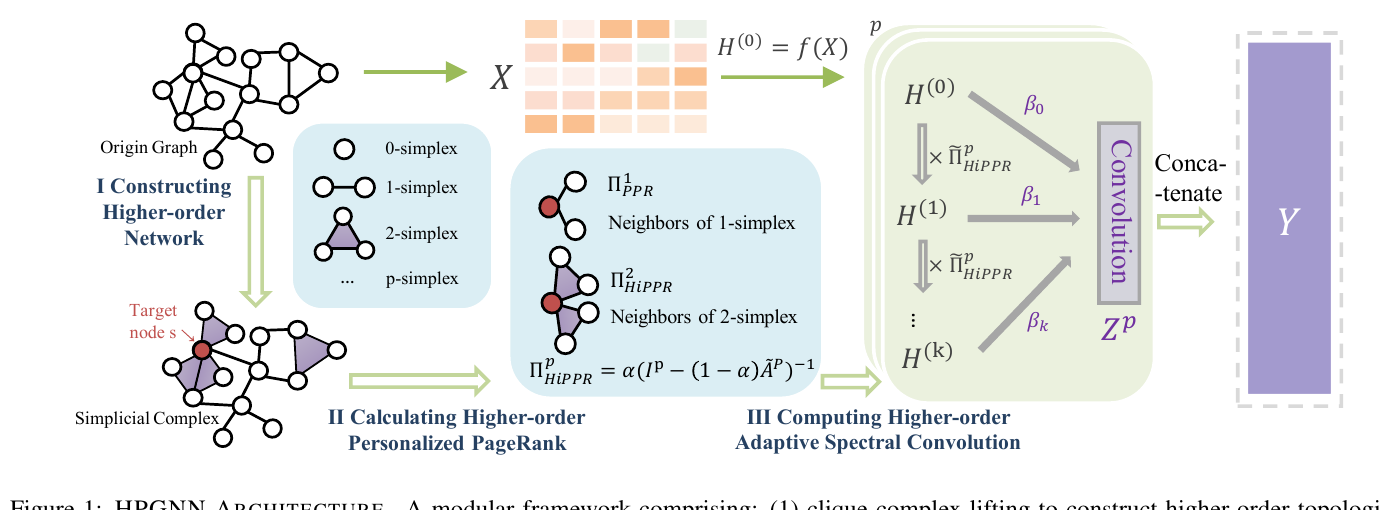
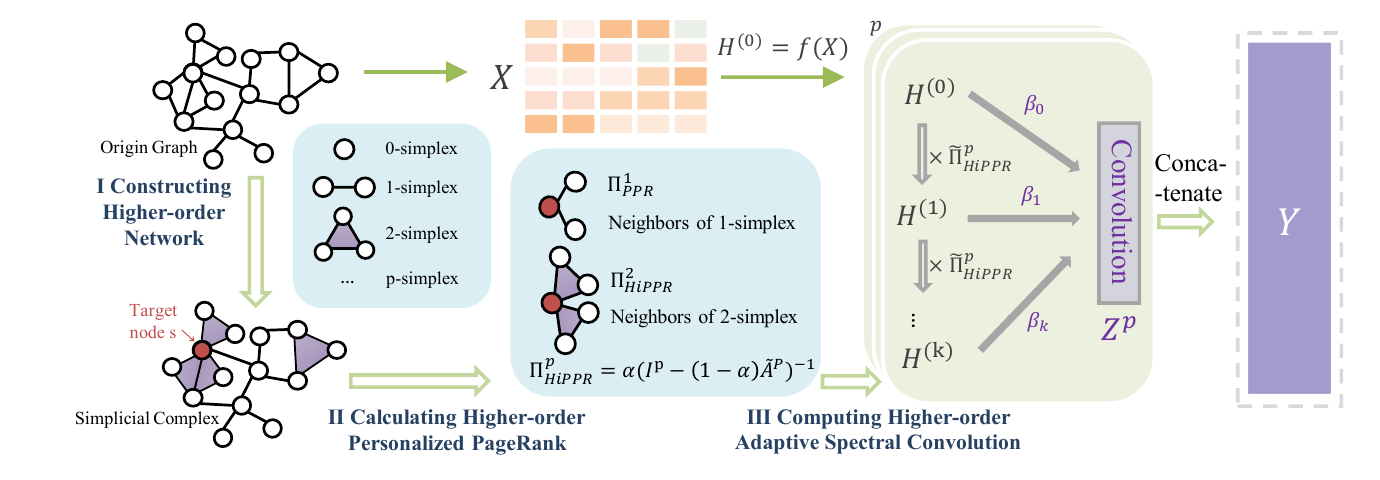
Fix HPGNN architecture image crop

diff --git a/papers/hpgnn/index.html b/papers/hpgnn/index.html
@@ -83,7 +83,7 @@
       <h2>三级框架：高阶构图、个性化传播、自适应卷积</h2>
       <p class="section-intro">从左到右，模型依次完成高阶结构构建、跨阶长程传播和多尺度信息融合。</p>
       <figure class="research-figure wide-figure">
-        <img src="../../assets/images/hpgnn-architecture.png" alt="HPGNN framework with clique complex lifting, HiPPR, and HiASC">
+        <img src="../../assets/images/hpgnn-architecture.png?v=2" alt="HPGNN framework with clique complex lifting, HiPPR, and HiASC">
         <figcaption><strong>Fig. 1 · HPGNN。</strong> Clique complex lifting 构建高阶网络，HiPPR 传播个性化信息，HiASC 融合不同阶与传播深度。</figcaption>
       </figure>
       <div class="method-steps">
